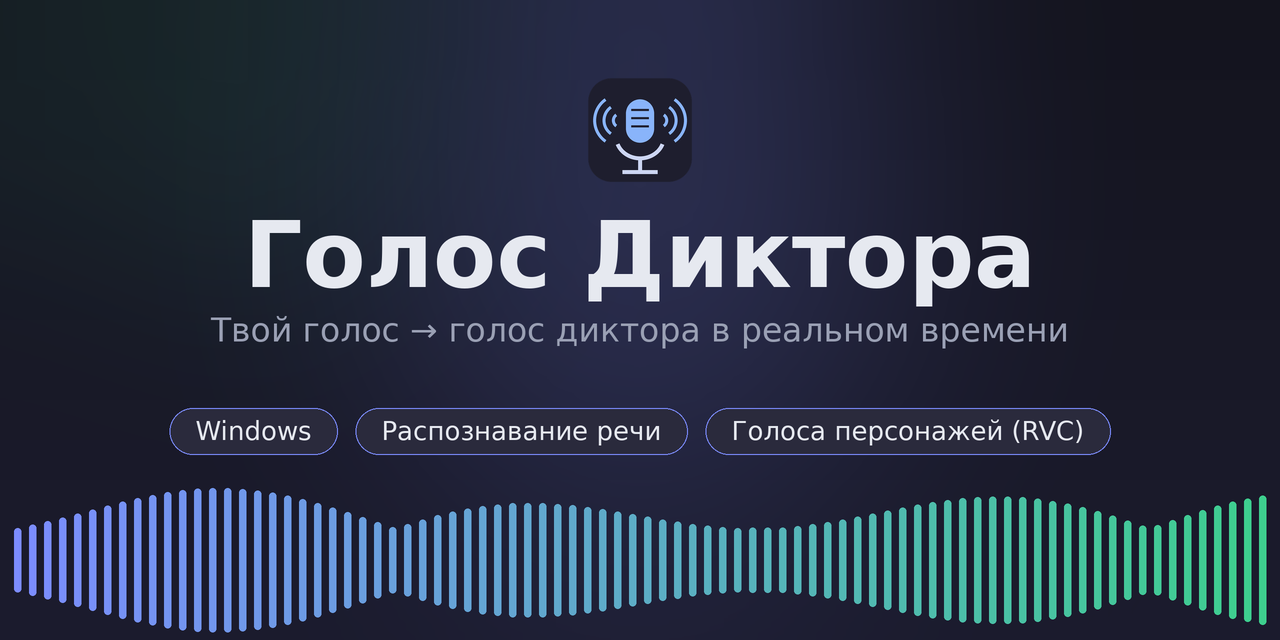
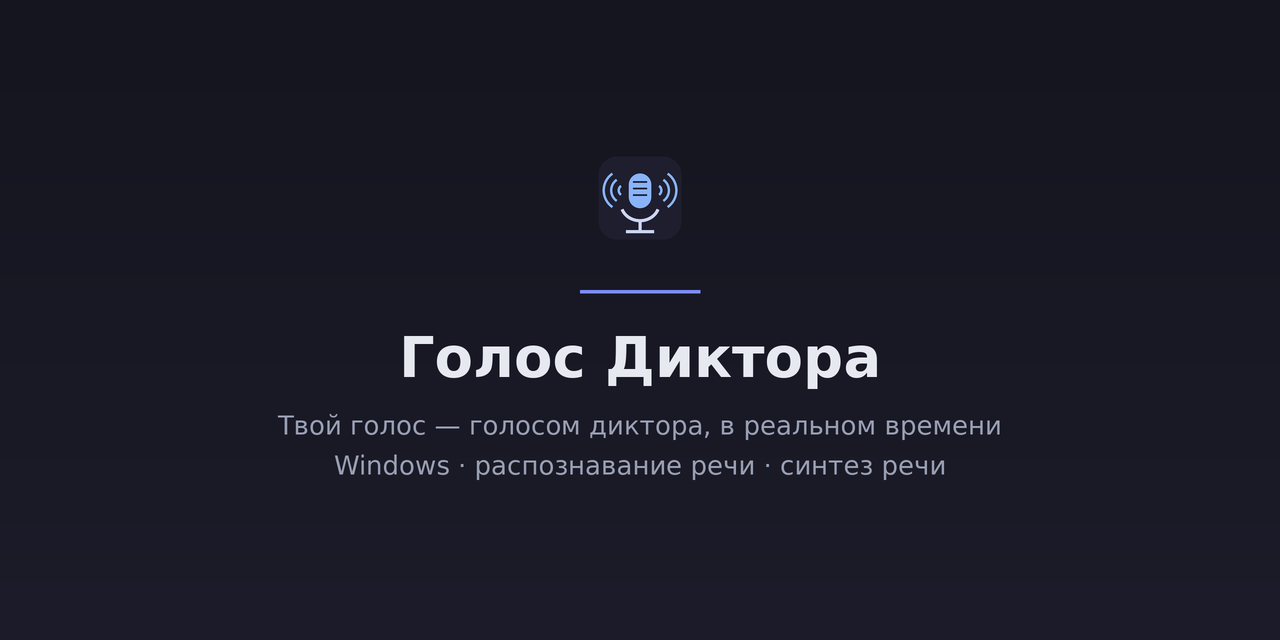
Убрать кричащую инфографику, упростить README
- удалить схему "Как это работает" (карточки/стрелки/градиенты) — её
  заменяет уже существующая фраза в описании, дублирование не нужно
- упростить баннер social-preview.png: без свечения, волны и плашек,
  просто иконка + заголовок + подпись
- убрать строку быстрой навигации (дублирует автоматический outline
  GitHub) и эмодзи-стрелку из кнопок скачивания

diff --git a/README.md b/README.md
@@ -9,8 +9,6 @@
 ![Python 3.10](https://img.shields.io/badge/Python-3.10-3776AB?logo=python&logoColor=white)
 [![Последний релиз](https://img.shields.io/github/v/release/yotsug8/dictor-voice?label=релиз&color=orange)](https://github.com/yotsug8/dictor-voice/releases/latest)
 
-**[Скачать](#скачать) • [Установка](#установка) • [Как пользоваться](#как-пользоваться) • [Возможности](#возможности) • [Если не работает](#если-не-работает)**
-
 </div>
 
 Замена голоса на синтезированный голос диктора в реальном времени (русский). Для Windows.
@@ -19,17 +17,13 @@
 
 ## Скачать
 
-[![Скачать — версия для NVIDIA](https://img.shields.io/badge/⬇%20Скачать-NVIDIA-3ecf8e?style=for-the-badge)](https://drive.google.com/file/d/1Wlzu2UZX5vxc6VEXWZfGJnkM8mUTNaYE/view?usp=sharing)
-[![Скачать — версия для CPU](https://img.shields.io/badge/⬇%20Скачать-CPU-7c8cff?style=for-the-badge)](https://github.com/yotsug8/dictor-voice/releases)
+[![Скачать NVIDIA-версию](https://img.shields.io/badge/Скачать-NVIDIA-3ecf8e?style=for-the-badge)](https://drive.google.com/file/d/1Wlzu2UZX5vxc6VEXWZfGJnkM8mUTNaYE/view?usp=sharing)
+[![Скачать CPU-версию](https://img.shields.io/badge/Скачать-CPU-7c8cff?style=for-the-badge)](https://github.com/yotsug8/dictor-voice/releases)
 
 - **NVIDIA-версия** — `Diktor-NVIDIA_v1.2.zip`, быстрее, качается с Google Drive (для ПК с видеокартой NVIDIA).
 - **CPU-версия** — `Diktor-CPU_v1.2.zip` в разделе [Releases](https://github.com/yotsug8/dictor-voice/releases), работает у всех, медленнее.
 
 > При скачивании NVIDIA-версии Google Drive может предупредить «не удалось проверить на вирусы» (из-за размера) — это нормально, нажмите «Скачать всё равно».
-
-## Как это работает
-
-![Схема работы: ты говоришь → распознавание речи → голос диктора → виртуальный микрофон → тебя слышат в чате](assets/how-it-works.png)
 
 ## Установка
 